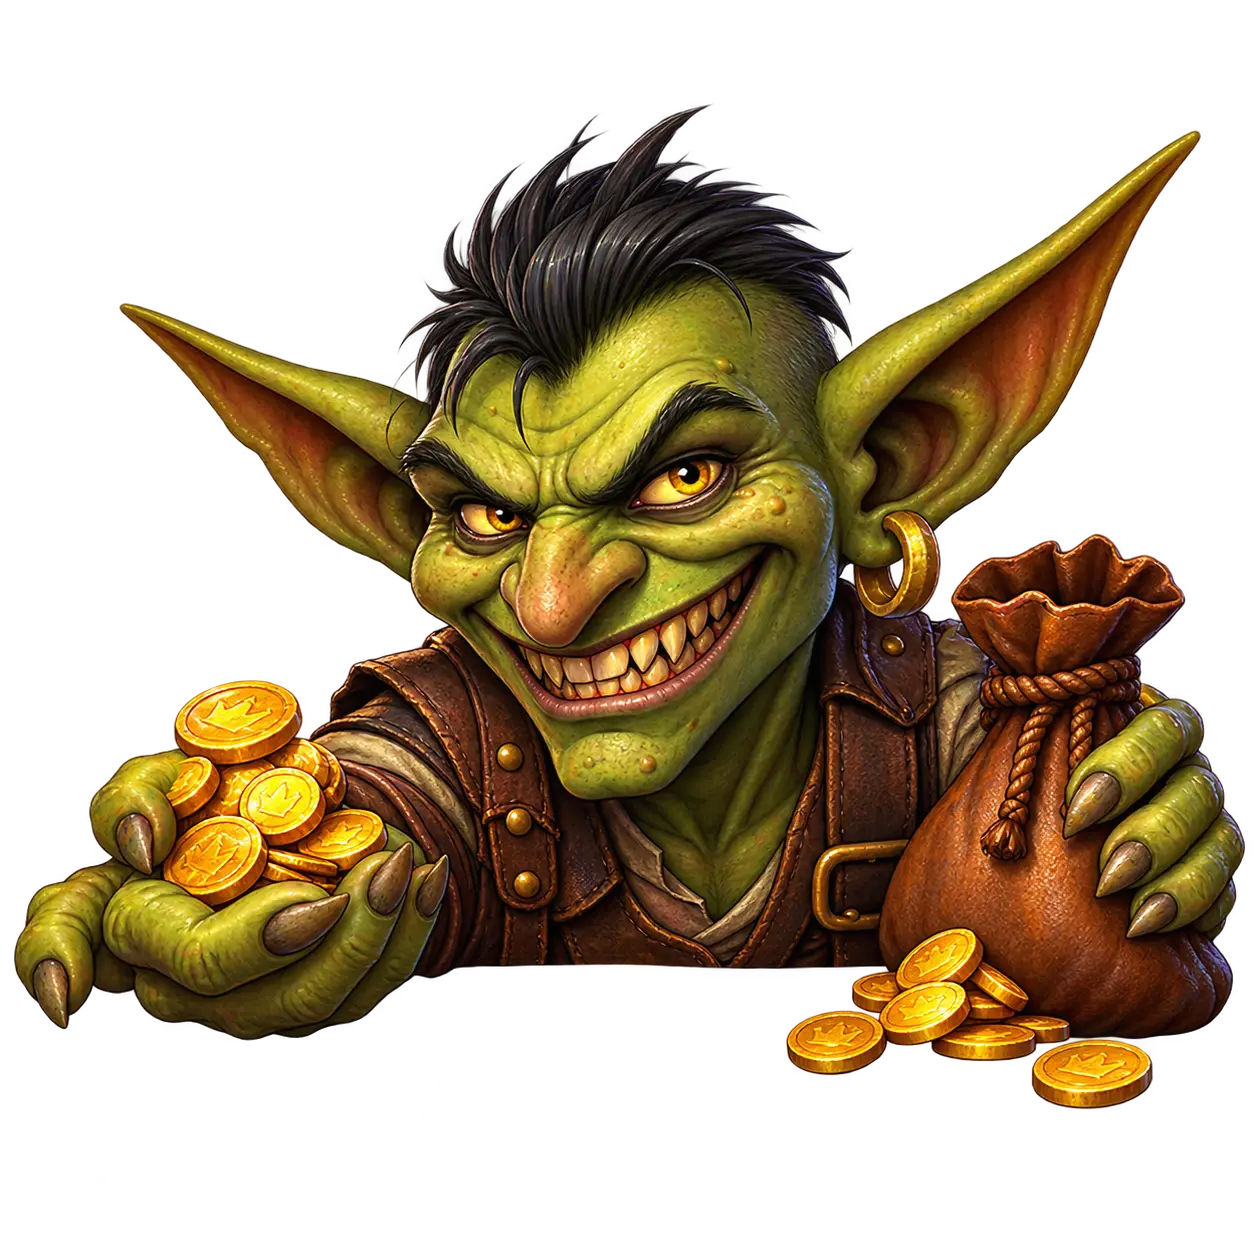
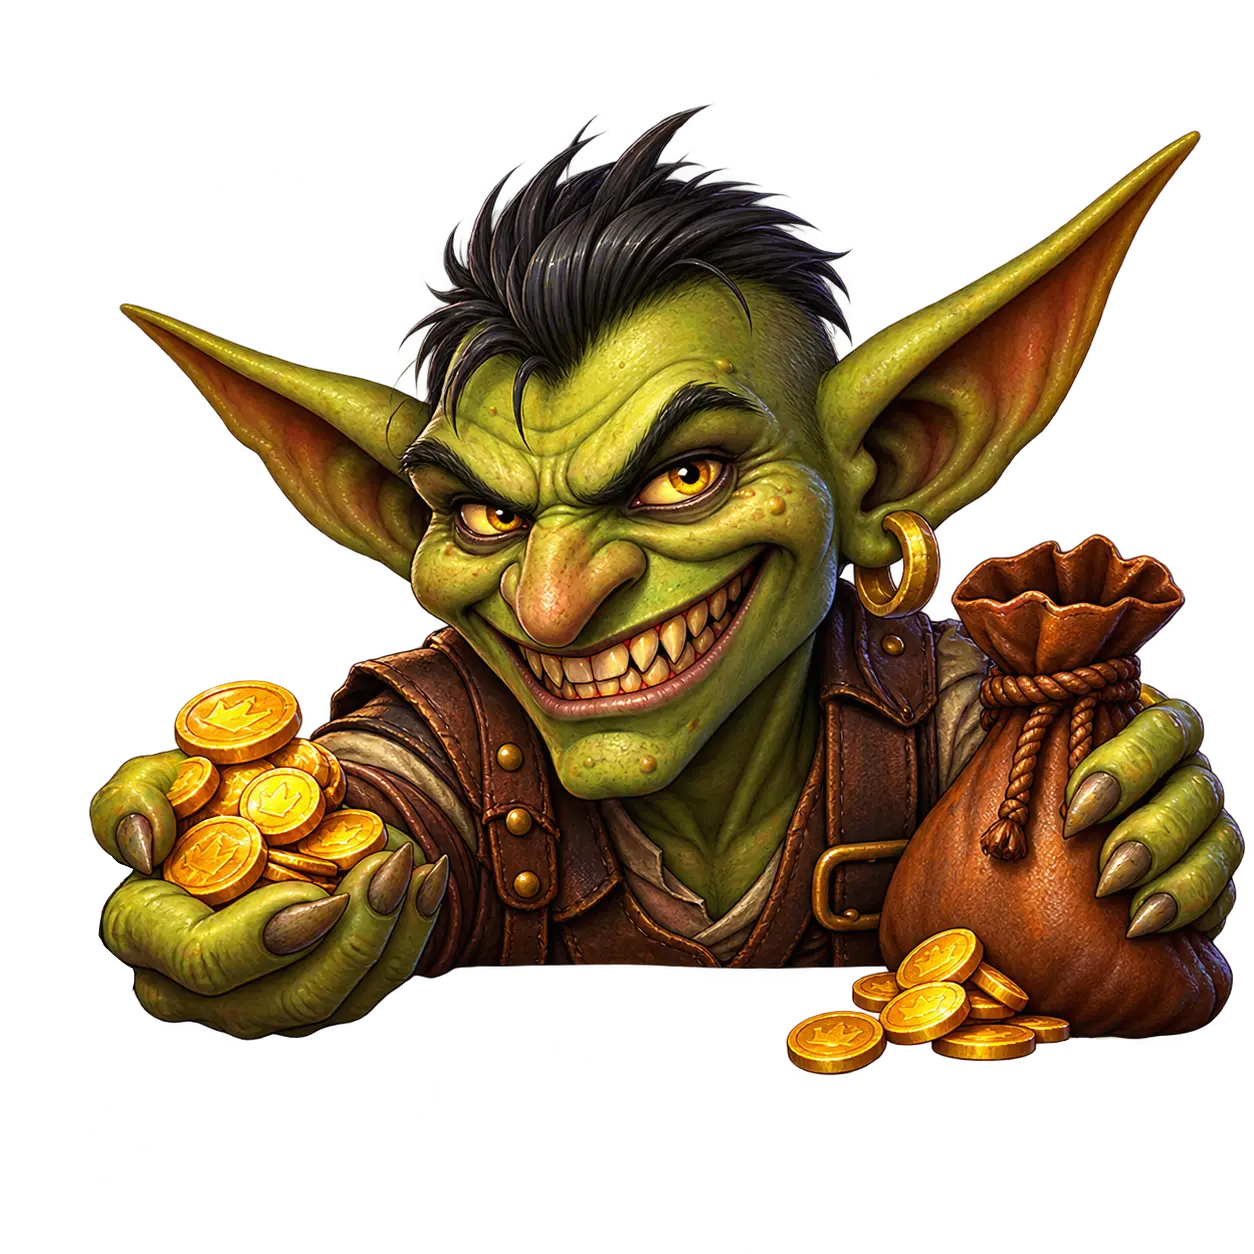
style: add more breathing room between support page sections
Bump the top margins between the spellbook, Why Donate, Hosting Bill,
Who Runs Each Server, and Quest Log sections (mt-10/mt-12 -> mt-14/mt-16).

Changed region(s): [[0.0, 0.6842, 0.1244, 0.8397], [0.8086, 0.8086, 0.933, 0.9019]]

diff --git a/frontend/landing/src/components/SupportPage.tsx b/frontend/landing/src/components/SupportPage.tsx
@@ -359,7 +359,7 @@ export function SupportPage() {
         {/* <p className="text-lg text-muted-foreground">Support Chronicle for WoW communities.</p> */}
       </div>
 
-      <div className="mt-10 rounded-xl border-2 border-[#6b5320] bg-[#1e1710] shadow-2xl shadow-black/40">
+      <div className="mt-14 rounded-xl border-2 border-[#6b5320] bg-[#1e1710] shadow-2xl shadow-black/40">
         <div className="flex items-center gap-3 rounded-t-[10px] border-b-2 border-[#6b5320] px-4 py-2.5">
           <BookOpen aria-hidden="true" className="h-4 w-4 text-[#f0c060]" />
           <h2 className="flex-1 text-center font-wow text-base font-bold tracking-[0.08em] text-[#f0c060]">
@@ -410,7 +410,7 @@ export function SupportPage() {
         </div>
       </div>
 
-      <h2 className="mt-12 font-wow text-xl font-semibold text-foreground">Why Donate?</h2>
+      <h2 className="mt-16 font-wow text-xl font-semibold text-foreground">Why Donate?</h2>
       <div className="mt-5 grid gap-4 sm:grid-cols-2">
         {WHY_DONATE_ITEMS.map(({ title, quality, icon, slot, subtype, equip, flavor }) => (
           <article
@@ -449,7 +449,7 @@ export function SupportPage() {
         ))}
       </div>
 
-      <div className="relative mt-12 rounded-lg border border-border bg-card shadow-2xl shadow-black/50 ring-1 ring-white/10">
+      <div className="relative mt-16 rounded-lg border border-border bg-card shadow-2xl shadow-black/50 ring-1 ring-white/10">
         <img
           src="/goblin.webp"
           alt=""
@@ -531,7 +531,7 @@ export function SupportPage() {
         </ul>
       </div>
 
-      <h2 className="mt-12 font-wow text-xl font-semibold text-foreground">Who Runs Each Server?</h2>
+      <h2 className="mt-16 font-wow text-xl font-semibold text-foreground">Who Runs Each Server?</h2>
       <p className="mt-1 text-sm text-muted-foreground">
         Whoever hosts a server bears the costs of running its logging site.
       </p>
@@ -553,7 +553,7 @@ export function SupportPage() {
         </figcaption>
       </figure>
 
-      <div className="mt-12 rounded-xl border-2 border-[#6b5320] bg-[#1e1710] shadow-2xl shadow-black/40">
+      <div className="mt-16 rounded-xl border-2 border-[#6b5320] bg-[#1e1710] shadow-2xl shadow-black/40">
         <div className="flex items-center gap-3 rounded-t-[10px] border-b-2 border-[#6b5320] px-4 py-2.5">
           <ScrollText aria-hidden="true" className="h-4 w-4 text-[#f0c060]" />
           <h3 className="flex-1 text-center font-wow text-base font-bold tracking-[0.08em] text-[#f0c060]">
